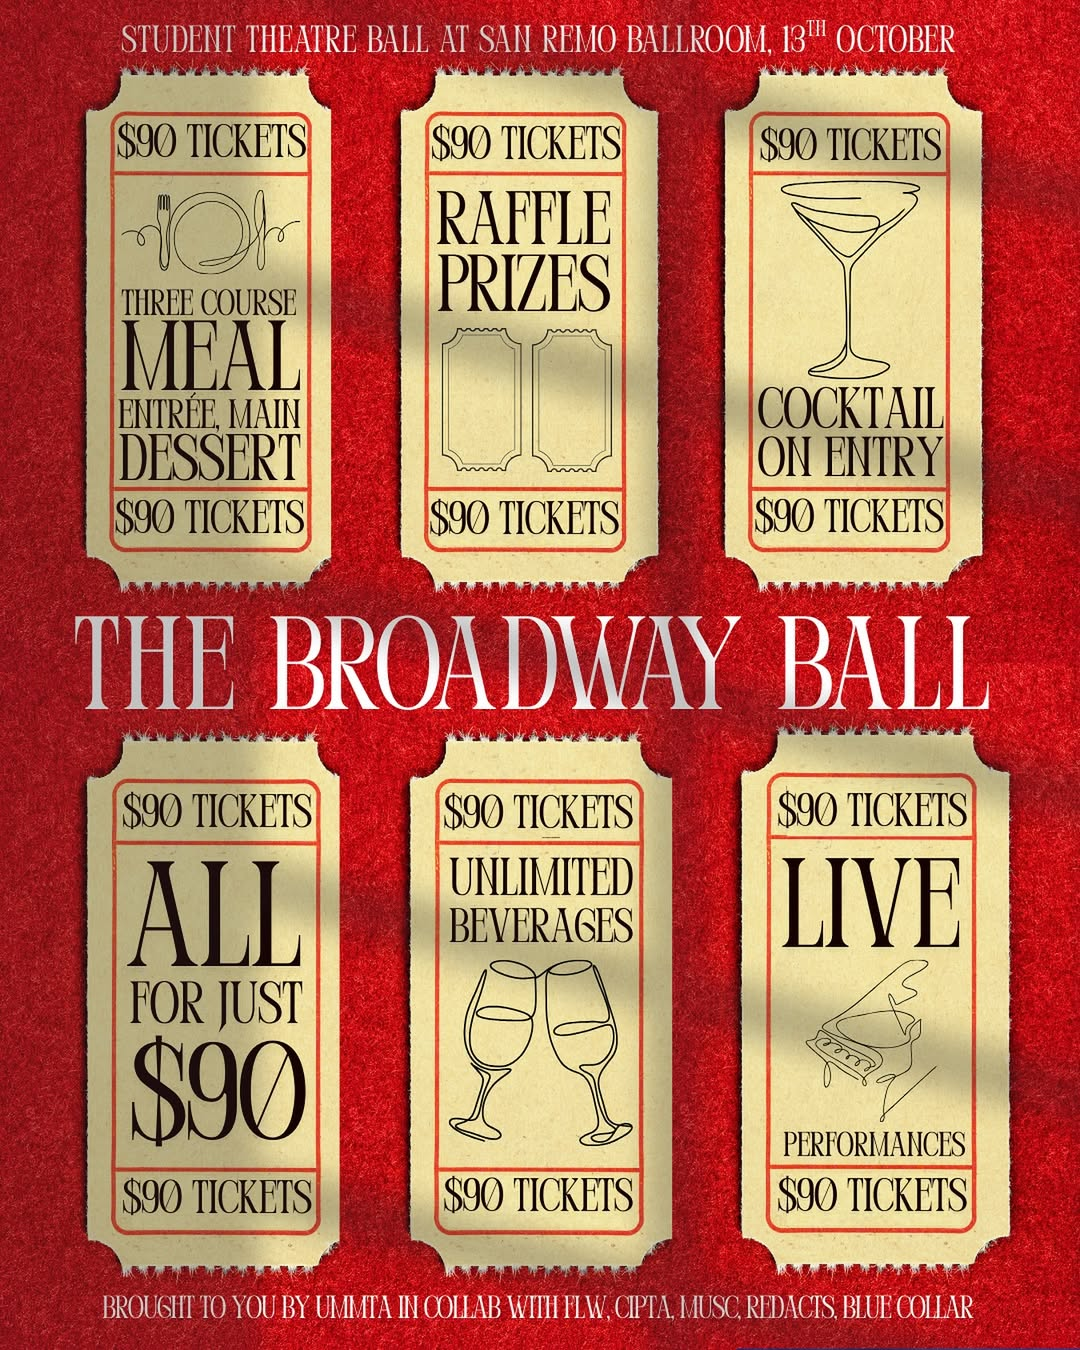
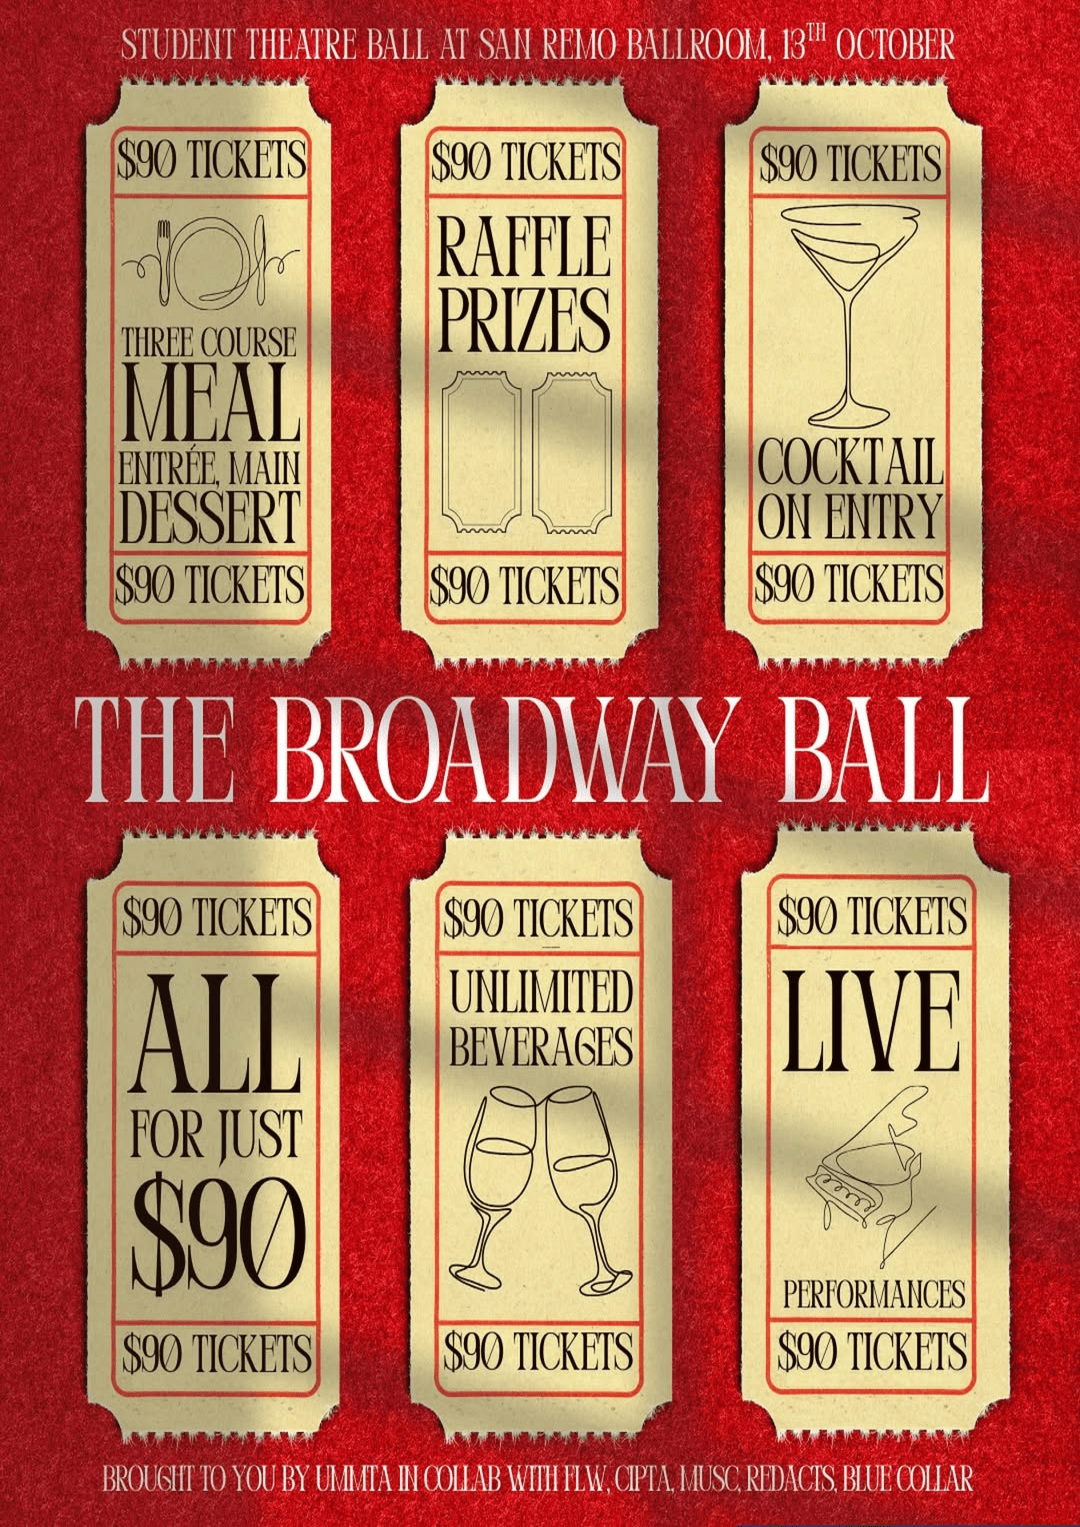
resized posters and scaled gigs.html for mobile (2 posters per row)

diff --git a/styles/style.css b/styles/style.css
@@ -479,4 +479,23 @@ html, body {
         top: 77%;
     }
 
+    .gigsTitle {
+        text-align: center;
+        font-size: 4vw;
+        margin-top: 1vh;
+    }
+
+    .gigsContainer {
+        display: flex;
+        flex-wrap: wrap;
+        padding-left: 5vw;
+        padding-right: 5vw;
+        padding-bottom: 2vw;
+        gap: 10vw;
+    }
+
+    .gigsContainer > a {
+        width: 40vw;
+        box-sizing: border-box;
+    }
 }
